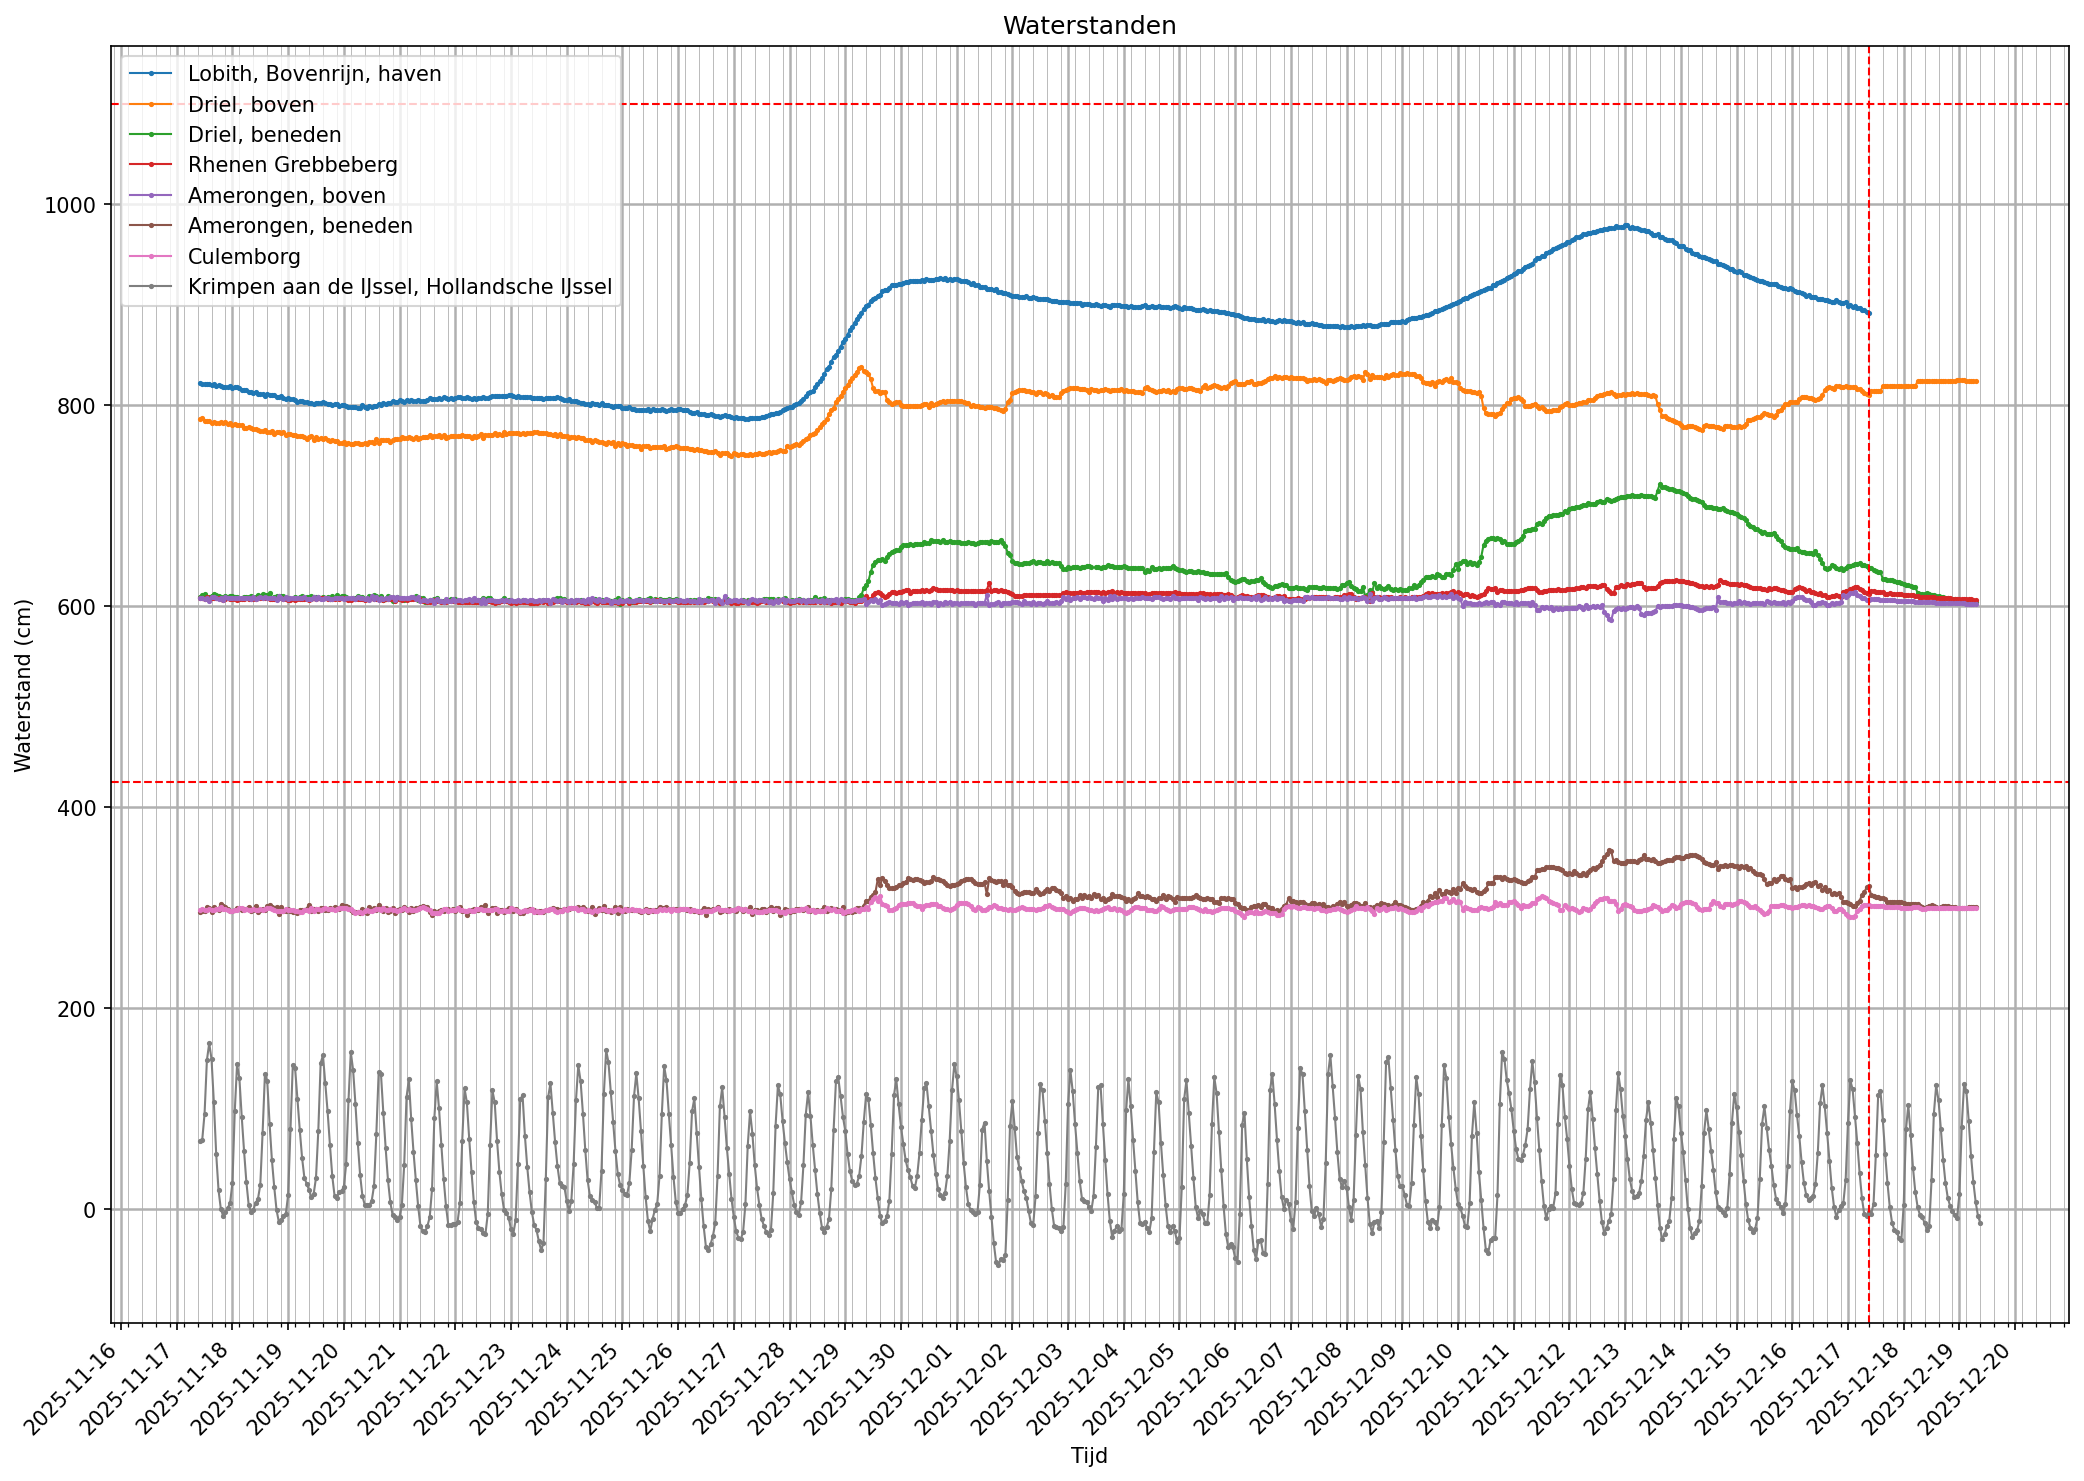
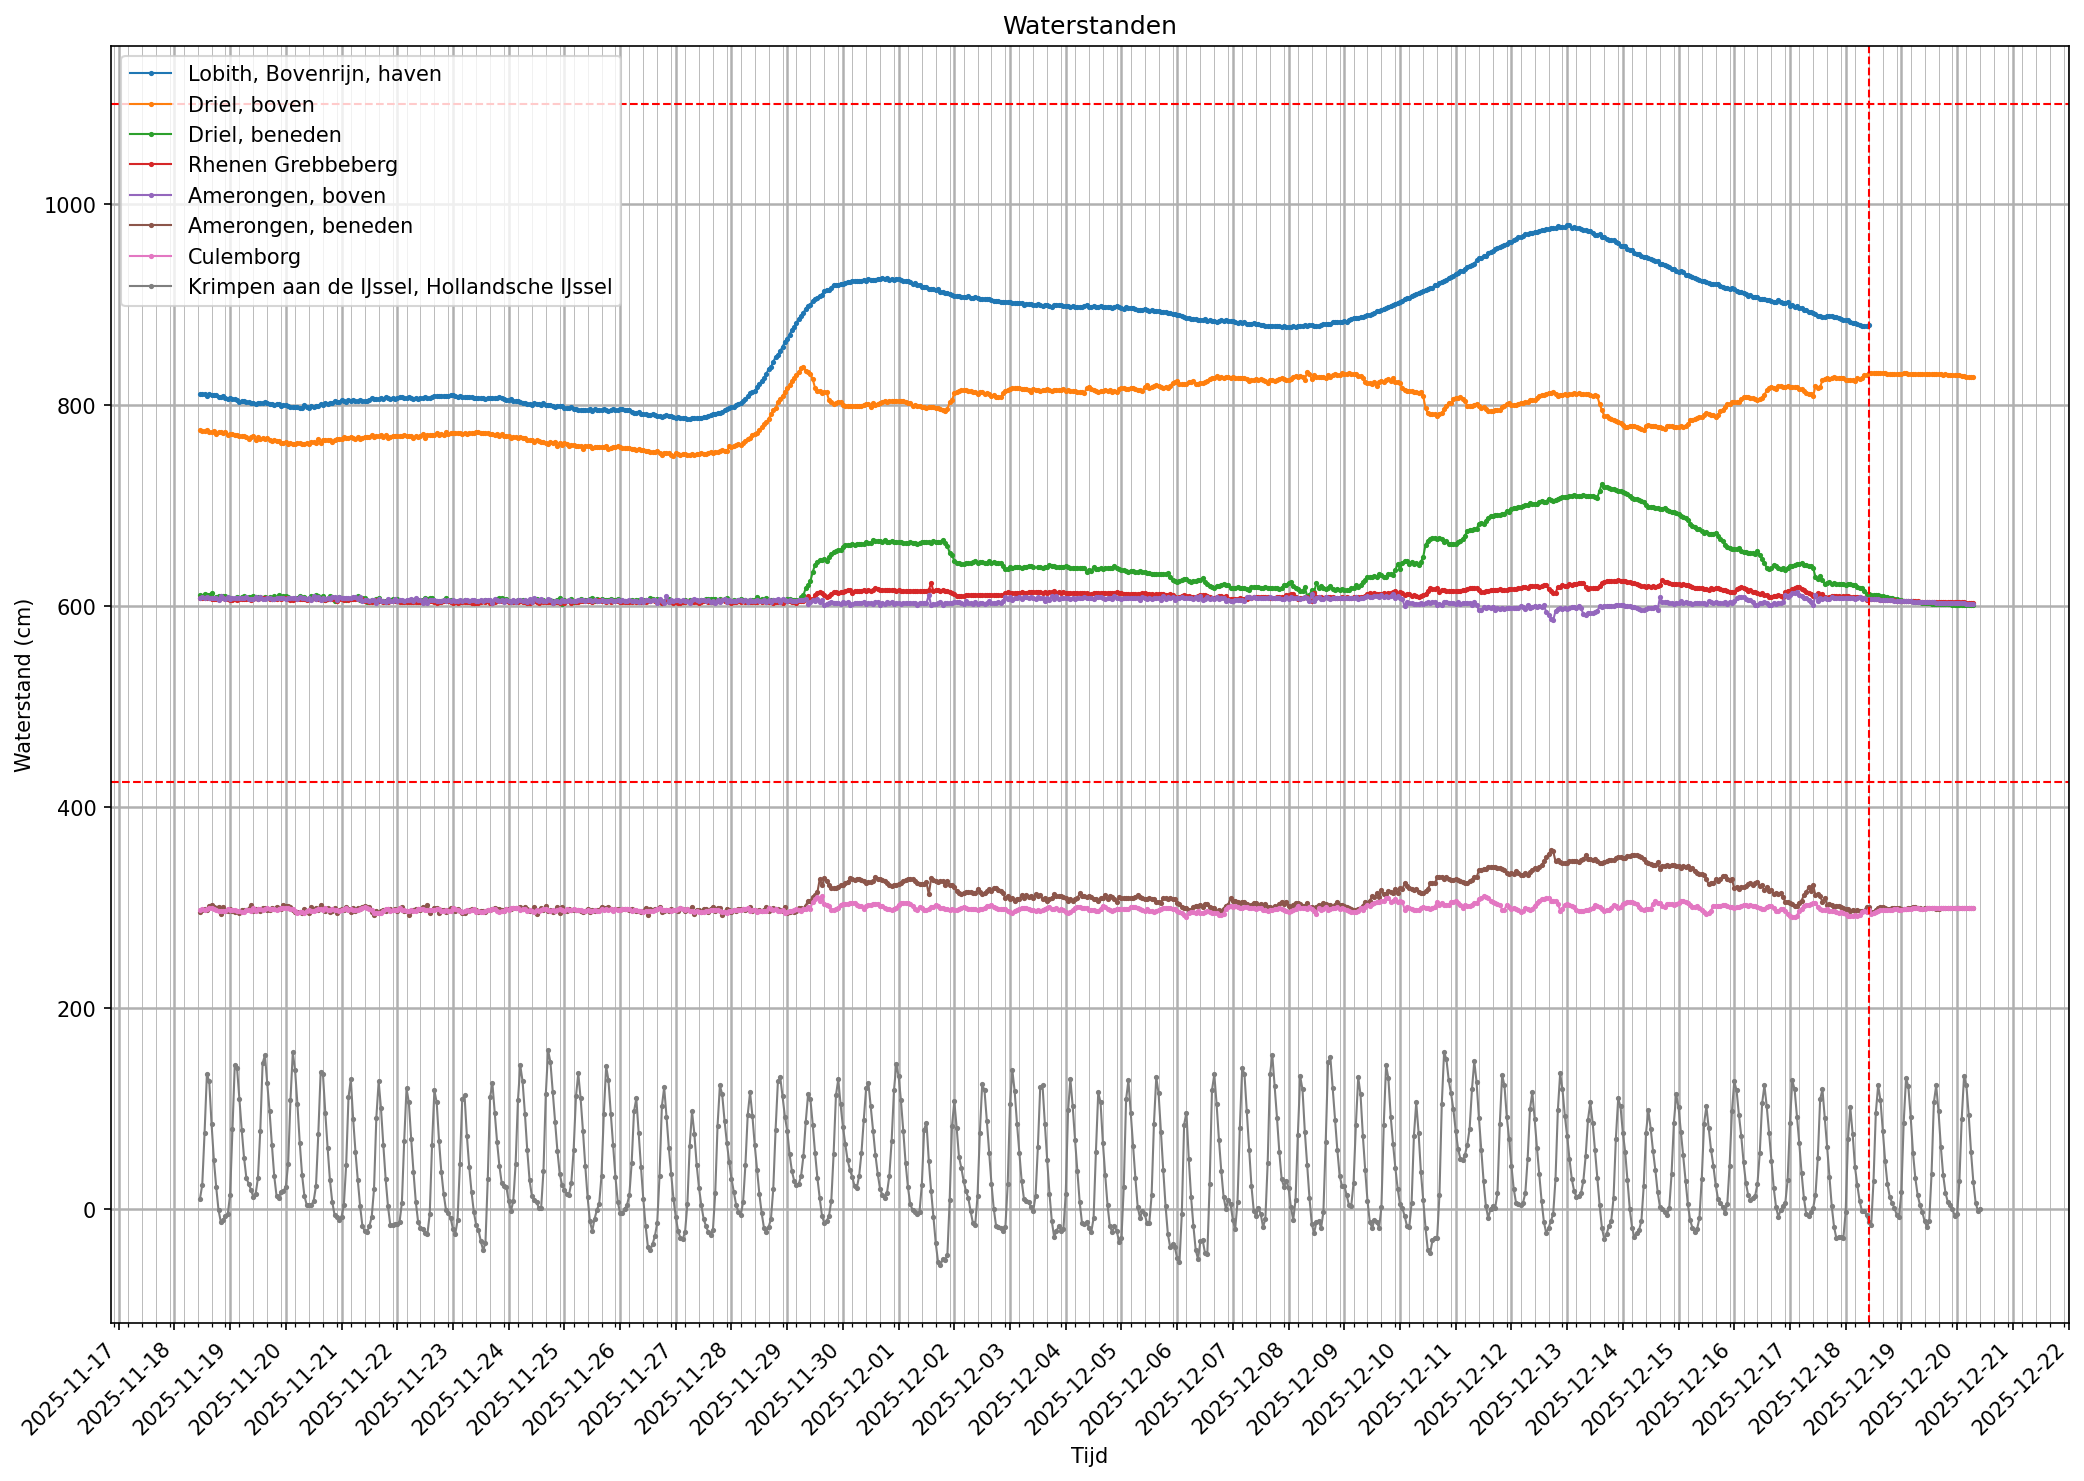
Added Allarm Checks for later sending

Changed region(s): [[0.0, 0.0311, 0.9669, 0.9629]]

diff --git a/main.py b/main.py
@@ -11,7 +11,10 @@ URL_CHECK = f"{BASE}/ONLINEWAARNEMINGENSERVICES/CheckWaarnemingenAanwezig"
 URL_OBS = f"{BASE}/ONLINEWAARNEMINGENSERVICES/OphalenWaarnemingen"
 RED = "\033[31m"
 GREEN = "\033[32m"
+YELLOW = "\033[33m"
 BLUE = "\033[34m"
+ORANGE = "\033[38;5;208m"
+BLACK = "\033[90m"
 RESET = "\033[0m"
 TZ = ZoneInfo("Europe/Amsterdam")
 LOCATIONS = {
@@ -19,10 +22,14 @@ LOCATIONS = {
     "Driel, boven": "driel.boven",
     "Driel, beneden": "driel.beneden",
     "Rhenen Grebbeberg": "rhenen.grebbeberg",
-    "Amerongen boven": "amerongen.boven",
-    "Amerongen beneden": "amerongen.beneden",
+    "Amerongen, boven": "amerongen.boven",
+    "Amerongen, beneden": "amerongen.beneden",
     "Culemborg": "culemborg",
     "Krimpen a/d IJssel": "krimpenaandeijssel.hollandscheijssel",
+}
+ALARMS = {
+    "Lobith, Bovenrijn, haven": {"max_level": 1100.0, "norm_level": 800.0, "alarm": "GREEN"},
+    "Amerongen, beneden": {"max_level": 425.0, "norm_level": 150.0, "alarm": "GREEN"},
 }
 
 
@@ -59,10 +66,10 @@ def check_waterstand(label: str, location_code: str, type_data: str, days: int):
     now = datetime.now(TZ)
     if type_data == "meting":
         start = now - timedelta(days=days)
-        end   = now
+        end = now
     elif type_data == "verwachting":
         start = now
-        end   = now + timedelta(days=days)
+        end = now + timedelta(days=days)
     else:
         return {}
     # 1) CheckWaarnemingenAanwezig (DD-API20 format) alleen kort:
@@ -135,9 +142,10 @@ def check_waterstand(label: str, location_code: str, type_data: str, days: int):
     print(f"   Waarde   : {waarde}")
     return wlists
 
+
 def create_print_data(water_data):
     # Deze functie converteerd de beschrikbare water data in een overzichtelijke vorm
-    print_dict={'index':{}}
+    print_dict = {'index': {}}
     for loc_data in water_data:
         locatie = loc_data['Locatie']['Naam']
         print_dict.setdefault(locatie, {})
@@ -150,6 +158,7 @@ def create_print_data(water_data):
                 print_dict[locatie][timestamp] = meting["Meetwaarde"]["Waarde_Numeriek"]
 
     return print_dict
+
 
 def print_table(data: dict):
     times = list(data["index"].keys())
@@ -173,9 +182,9 @@ def print_table(data: dict):
     def fmt(row):
         cells = []
         for i, (c, w) in enumerate(zip(row, widths)):
-            if i == 0:          # Tijd links
+            if i == 0:  # Tijd links
                 cells.append(c.ljust(w))
-            else:               # Getallen rechts
+            else:  # Getallen rechts
                 cells.append(c.rjust(w))
         return "| " + " | ".join(cells) + " |"
 
@@ -202,6 +211,7 @@ def print_table(data: dict):
 
     print(sep)
 
+
 def plot_waterstanden(data: dict, title="Waterstanden"):
     now = datetime.now(TZ)
 
@@ -222,13 +232,12 @@ def plot_waterstanden(data: dict, title="Waterstanden"):
     ax.grid(which="major", linewidth=1.2)  # dikker (00:00)
     ax.grid(which="minor", linewidth=0.4)  # dunner (6 uur)
 
-
     for loc in locations:
         y = [data.get(loc, {}).get(t, None) for t in times]
         plt.plot(x, y, marker=".", markersize=3, linewidth=1, label=loc)
 
-    plt.axhline(425.0, color="red",linestyle="--", linewidth=1)
-    plt.axhline(1100.0, color="red",linestyle="--", linewidth=1)
+    plt.axhline(425.0, color="red", linestyle="--", linewidth=1)
+    plt.axhline(1100.0, color="red", linestyle="--", linewidth=1)
     plt.axvline(mdates.date2num(now), color="red", linestyle="--", linewidth=1)
     plt.title(title)
     plt.xlabel("Tijd")
@@ -240,6 +249,72 @@ def plot_waterstanden(data: dict, title="Waterstanden"):
     plt.savefig("waterstanden.png", dpi=150, bbox_inches="tight")
     plt.show()
 
+def check_alarms(data: dict):
+    """
+
+    Args:
+        data (dict): All water data
+
+    Returns:
+
+    """
+    print(f"Lets Check Alarms")
+    alarm_on = False
+    now = datetime.now(TZ)
+    now = now.replace(minute=0, second=0, microsecond=0) - timedelta(hours=1)
+    for site in ALARMS:
+        alarm_local = "GREEN"
+        print(f"  {site}")
+        site_data = data.get(site)
+        if not isinstance(site_data, dict):
+            print(f"    ⚠ Geen data gevonden voor alarm-locatie '{site}'.")
+            ALARMS[site]["alarm"] = alarm_local
+            continue
+        for time, hight in site_data.items():
+            # print(f"{now} <= {datetime.strptime(time, "%Y-%m-%dT%H").replace(tzinfo=TZ)}")
+            if now <= datetime.strptime(time, "%Y-%m-%dT%H").replace(tzinfo=TZ):
+                max_level = float(ALARMS[site]["max_level"])
+                norm_level = float(ALARMS[site]["norm_level"])
+                span = max_level - norm_level
+                h = float(hight)
+
+                # Multi-level warning states based on norm_level + % of (max_level - norm_level)
+                if h >= max_level:
+                    state = "BLACK"
+                elif h >= norm_level + 0.95 * span:
+                    state = "RED"
+                elif h >= norm_level + 0.75 * span:\
+                    state = "ORANGE"
+                elif h >= norm_level + 0.50 * span:
+                    state = "YELLOW"
+                else:
+                    state = "GREEN"
+
+                # Keep the worst state across times for this site
+                order = {"GREEN": 0, "YELLOW": 1, "ORANGE": 2, "RED": 3, "BLACK": 4}
+                if order[state] > order[alarm_local]:
+                    alarm_local = state
+
+                state_color = {
+                    "GREEN": GREEN,
+                    "YELLOW": YELLOW,
+                    "ORANGE": ORANGE,
+                    "RED": RED,
+                    "BLACK": BLACK,
+                }
+
+                if state == "GREEN":
+                    print(f"    {GREEN}OK{RESET} {site}: {time}: {hight}")
+                else:
+                    prefix = f"{state_color.get(state, '')}WARNING {state}{RESET}"
+                    print(
+                        f"    {prefix} {site}: at {time} {hight} "
+                        f"(norm={norm_level}, max={max_level}, span={span})"
+                    )
+                    alarm_on = True
+        ALARMS[site]["alarm"] = alarm_local
+    return alarm_on
+
 
 def main():
     waterstanden = []
@@ -249,7 +324,7 @@ def main():
         print("=" * 60)
 
         for t in ("meting", "verwachting"):
-            r = check_waterstand(label, code, t, 30)
+            r = check_waterstand(label, code, t, 1)
             if isinstance(r, list):
                 waterstanden.extend(r)
 
@@ -259,6 +334,9 @@ def main():
     printable_dict = create_print_data(waterstanden)
     # print_table(printable_dict)
     plot_waterstanden(printable_dict)
+    if check_alarms(printable_dict) is True:
+        print(f"Alarm found: {ALARMS}")
+
 
 if __name__ == "__main__":
     main()
